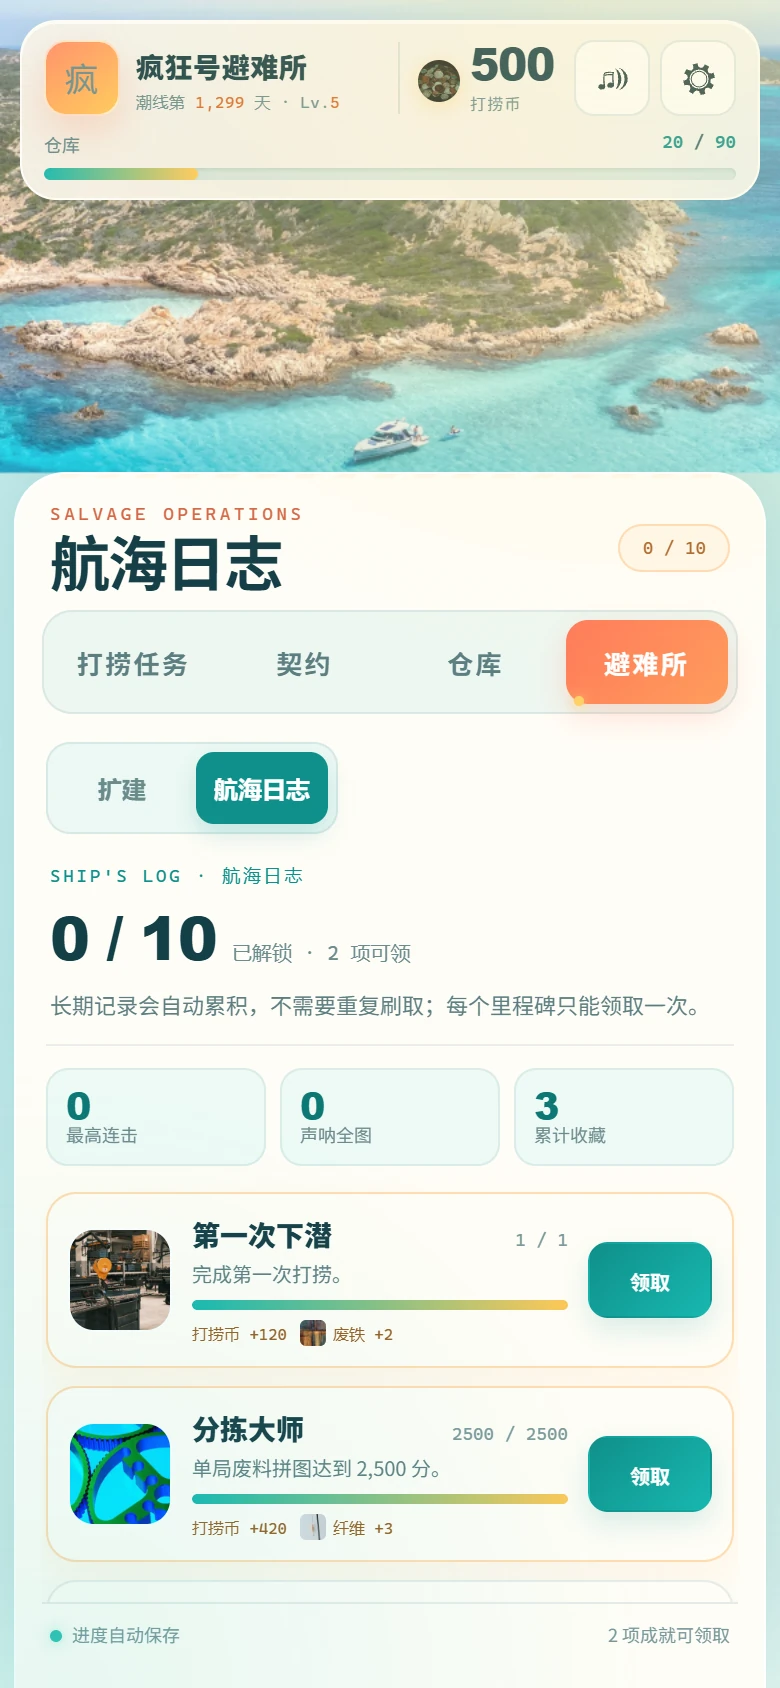
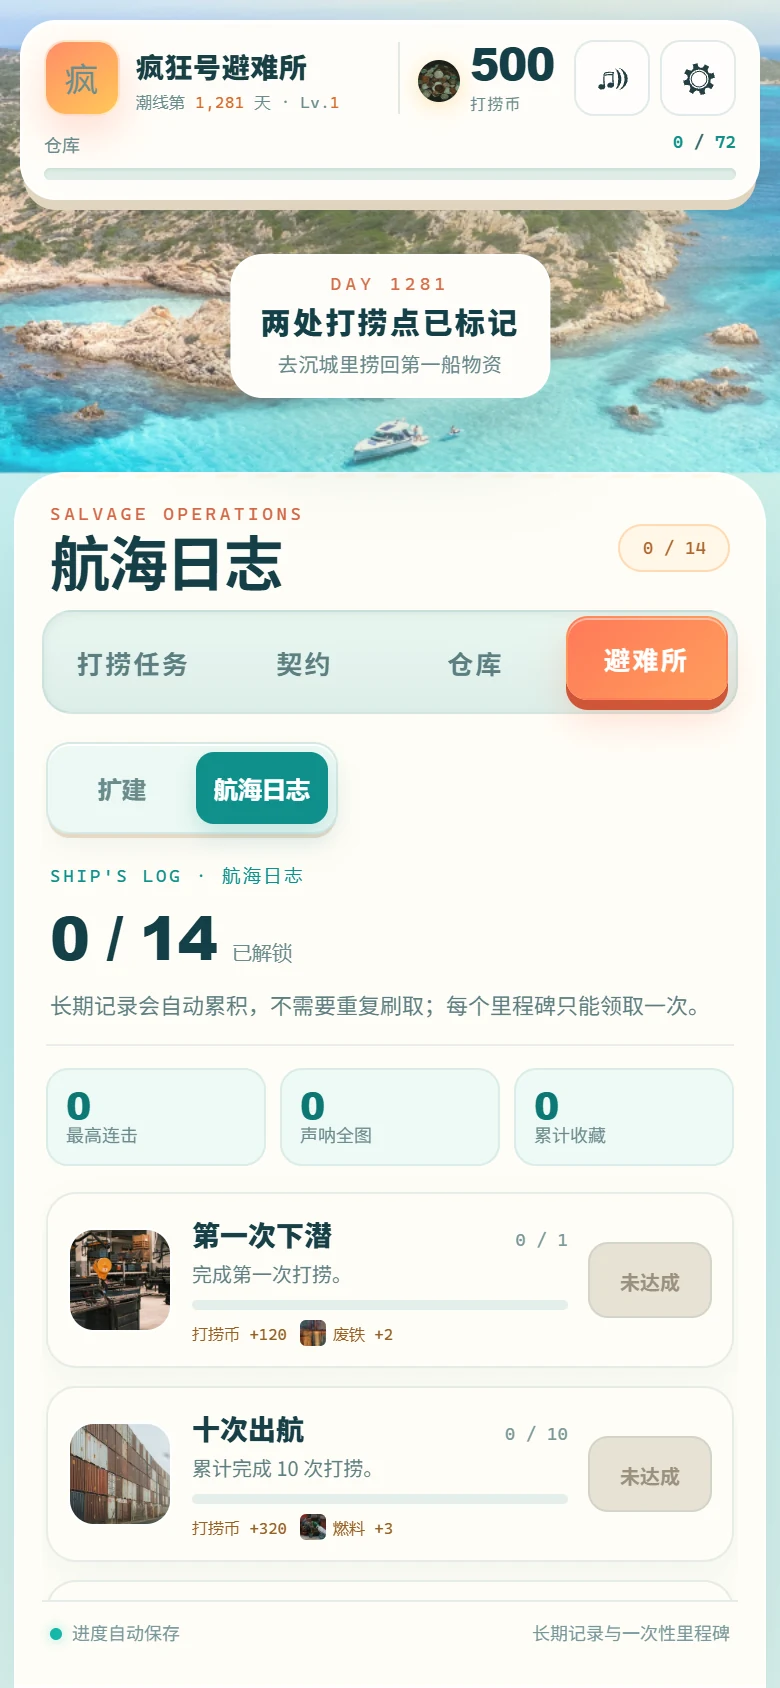
v5.4: 新任务契约、每日与成就目标闭环

diff --git a/js/hub.js b/js/hub.js
@@ -181,6 +181,21 @@
       reward: { credits: 240, mats: { fuel: 2 } }
     },
     {
+      id: 'cut-contract', name: '精准拆解', iconImg: 'assets/real/workshop.webp', metric: 'cutCuts', mode: 'sum', target: 8,
+      desc: '累计完成 8 个沉船切割切口。',
+      reward: { credits: 240, mats: { glass: 2, copper: 1 } }
+    },
+    {
+      id: 'sort-contract', name: '流水线熟手', iconImg: 'assets/real/storage.webp', metric: 'sortCorrect', mode: 'sum', target: 10,
+      desc: '累计正确分拣 10 件货物。',
+      reward: { credits: 250, mats: { chip: 2, glass: 2 } }
+    },
+    {
+      id: 'beacon-contract', name: '守灯人', iconImg: 'assets/real/core.webp', metric: 'beaconRounds', mode: 'sum', target: 3,
+      desc: '累计复现 3 组灯塔信号。',
+      reward: { credits: 260, mats: { copper: 2, chip: 1 } }
+    },
+    {
       id: 'perfect-sonar', name: '全图回收', iconImg: 'assets/real/sonar.webp', metric: 'sonarPerfect', mode: 'max', target: 1, rare: true,
       desc: '单局声呐扫掠找回全部 4 个货箱。',
       reward: { credits: 520, mats: { chip: 4 } }
@@ -228,6 +243,24 @@
       metric: 'collectibles', mode: 'sum', target: 2,
       desc: '今天从局内带回 2 件收藏品。',
       reward: { credits: 300, mats: { fiber: 3, chip: 1 } }
+    },
+    {
+      id: 'daily-cut', name: '精准切口', iconImg: 'assets/real/workshop.webp',
+      metric: 'cutCuts', mode: 'max', target: 4,
+      desc: '单局沉船切割完成 4 个精准切口。',
+      reward: { credits: 320, mats: { glass: 3, copper: 1 } }
+    },
+    {
+      id: 'daily-sort', name: '分拣快手', iconImg: 'assets/real/storage.webp',
+      metric: 'sortCorrect', mode: 'max', target: 8,
+      desc: '单局分拣传送带正确分拣 8 件。',
+      reward: { credits: 330, mats: { chip: 2, glass: 2 } }
+    },
+    {
+      id: 'daily-beacon', name: '信号复现', iconImg: 'assets/real/core.webp',
+      metric: 'beaconRounds', mode: 'max', target: 2,
+      desc: '单局灯塔信号复现 2 组。',
+      reward: { credits: 330, mats: { copper: 2, chip: 2 } }
     }
   ]);
 
@@ -281,6 +314,26 @@
       id: 'level-ten', name: '海岸据点', iconImg: 'assets/real/workshop.webp',
       metric: 'level', target: 10, desc: '把避难所升到 Lv.10。',
       reward: { credits: 800, mats: { metal: 8, fuel: 6, fiber: 6, chip: 4 } }
+    },
+    {
+      id: 'cut-first', name: '第一道切口', iconImg: 'assets/real/workshop.webp',
+      metric: 'cutRuns', target: 1, desc: '完成一次沉船切割。',
+      reward: { credits: 200, mats: { glass: 2, copper: 1 } }
+    },
+    {
+      id: 'sort-first', name: '流水线开张', iconImg: 'assets/real/storage.webp',
+      metric: 'sortRuns', target: 1, desc: '完成一次分拣传送带。',
+      reward: { credits: 200, mats: { chip: 1, glass: 1 } }
+    },
+    {
+      id: 'beacon-first', name: '最后的灯塔', iconImg: 'assets/real/core.webp',
+      metric: 'beaconRuns', target: 1, desc: '完成一次灯塔信号。',
+      reward: { credits: 200, mats: { copper: 1, chip: 1 } }
+    },
+    {
+      id: 'all-six', name: '六面手', iconImg: 'assets/real/sonar.webp',
+      metric: 'missionsPlayed', target: 6, desc: '六种打捞任务都至少完成一次。',
+      reward: { credits: 900, mats: { metal: 6, fuel: 4, fiber: 4, chip: 4, glass: 4, copper: 4 } }
     }
   ]);
 
@@ -384,7 +437,10 @@
         collectiblesFound: 0,
         creditsEarned: 0,
         safeTotal: 0,
-        goldTotal: 0
+        goldTotal: 0,
+        cutRuns: 0,
+        sortRuns: 0,
+        beaconRuns: 0
       },
       upgrades: { storage: 0, workshop: 0, sonar: 0, core: 0, purifier: 0 },
       best: { hook: 0, match: 0, sonar: 0, cut: 0, sort: 0, beacon: 0 },
@@ -435,6 +491,9 @@
     data.stats.creditsEarned = Math.max(0, Number(raw.stats && raw.stats.creditsEarned) || 0);
     data.stats.safeTotal = Math.max(0, Math.floor(Number(raw.stats && raw.stats.safeTotal) || 0));
     data.stats.goldTotal = Math.max(0, Math.floor(Number(raw.stats && raw.stats.goldTotal) || 0));
+    data.stats.cutRuns = Math.max(0, Math.floor(Number(raw.stats && raw.stats.cutRuns) || 0));
+    data.stats.sortRuns = Math.max(0, Math.floor(Number(raw.stats && raw.stats.sortRuns) || 0));
+    data.stats.beaconRuns = Math.max(0, Math.floor(Number(raw.stats && raw.stats.beaconRuns) || 0));
     data.contracts = normalizeContractSet(raw.contracts);
     data.contractRound = Math.max(1, Math.floor(Number(raw.contractRound) || 1));
     data.contractRerollUsed = !!raw.contractRerollUsed;
@@ -899,6 +958,9 @@
       case 'chips': return Math.max(0, Number(result.materials && result.materials.chip) || 0);
       case 'glass': return Math.max(0, Number(result.materials && result.materials.glass) || 0);
       case 'copper': return Math.max(0, Number(result.materials && result.materials.copper) || 0);
+      case 'cutCuts': return Math.max(0, Number(result.cuts) || 0);
+      case 'sortCorrect': return Math.max(0, Number(result.correct) || 0);
+      case 'beaconRounds': return Math.max(0, Number(result.rounds) || 0);
       case 'sonarFinds': return Math.max(0, Number(result.found) || 0);
       case 'sonarPerfect': return result.type === 'sonar' && Number(result.found || 0) >= 4 ? 1 : 0;
       case 'stormRun': {
@@ -959,6 +1021,9 @@
       case 'matchScore': return result.type === 'match' ? Math.max(0, Number(result.score) || 0) : 0;
       case 'sonarFinds': return Math.max(0, Number(result.found) || 0);
       case 'runs': return 1;
+      case 'cutCuts': return Math.max(0, Number(result.cuts) || 0);
+      case 'sortCorrect': return Math.max(0, Number(result.correct) || 0);
+      case 'beaconRounds': return Math.max(0, Number(result.rounds) || 0);
       case 'collectibles': return Array.isArray(result.collectibles) ? result.collectibles.length : 0;
       default: return 0;
     }
@@ -1436,6 +1501,19 @@
       case 'collectiblesFound': return this.data.stats.collectiblesFound || 0;
       case 'dailyStreak': return this.data.dailyStreak || 0;
       case 'safeTotal': return this.data.stats.safeTotal || 0;
+      case 'cutRuns': return this.data.stats.cutRuns || 0;
+      case 'sortRuns': return this.data.stats.sortRuns || 0;
+      case 'beaconRuns': return this.data.stats.beaconRuns || 0;
+      case 'missionsPlayed': {
+        var n = 0;
+        if ((this.data.best.hook || 0) > 0) n++;
+        if ((this.data.best.match || 0) > 0) n++;
+        if ((this.data.best.sonar || 0) > 0) n++;
+        if ((this.data.stats.cutRuns || 0) > 0) n++;
+        if ((this.data.stats.sortRuns || 0) > 0) n++;
+        if ((this.data.stats.beaconRuns || 0) > 0) n++;
+        return n;
+      }
       case 'level': return this.level();
       default: return 0;
     }
@@ -1659,6 +1737,9 @@
     if (filtersGained > 0) this.data.filterPity = 0;
     else this.data.filterPity = Math.min(7, (this.data.filterPity || 0) + 1);
     this.data.runs += 1;
+    if (result.type === 'cut') this.data.stats.cutRuns = (this.data.stats.cutRuns || 0) + 1;
+    else if (result.type === 'sort') this.data.stats.sortRuns = (this.data.stats.sortRuns || 0) + 1;
+    else if (result.type === 'beacon') this.data.stats.beaconRuns = (this.data.stats.beaconRuns || 0) + 1;
     var key = ['hook', 'match', 'sonar', 'cut', 'sort', 'beacon'].indexOf(result.type) >= 0 ? result.type : 'hook';
     this.data.best[key] = Math.max(this.data.best[key] || 0, Math.round(result.score || 0));
     var collectibles = this.registerCollectibles(result);

diff --git a/js/expeditions.js b/js/expeditions.js
@@ -112,7 +112,7 @@
     m.copper = 1 + Math.floor(this.cuts / 2);
     m.glass = 1;
     this.result = {
-      type: 'cut', score: this.score + this.cuts * 60,
+      type: 'cut', score: this.score + this.cuts * 60, cuts: this.cuts,
       credits: 90 + this.cuts * 65, filters: 0,
       materials: m, collectibles: [], bestCombo: this.cuts
     };
@@ -240,7 +240,7 @@
     for (var i = 0; i < CW.MATERIALS.length; i++) m[CW.MATERIALS[i].id] = 0;
     for (var id in this.counts) if (this.counts[id]) m[id] = this.counts[id];
     this.result = {
-      type: 'sort', score: this.score + this.correct * 30,
+      type: 'sort', score: this.score + this.correct * 30, correct: this.correct,
       credits: 100 + this.correct * 45, filters: 0,
       materials: m, collectibles: []
     };
@@ -385,7 +385,7 @@
     m.glass = 1 + Math.floor(this.rounds / 2);
     m.copper = 1;
     this.result = {
-      type: 'beacon', score: this.score,
+      type: 'beacon', score: this.score, rounds: this.rounds,
       credits: 100 + this.rounds * 90, filters: 0,
       materials: m, collectibles: []
     };

diff --git a/index.html b/index.html
@@ -134,7 +134,7 @@
       </div>
       <div class="title-footer">
         <span>海岸实景素材 · 本地图片 · 无离线收益</span>
-        <span>v5.3 · PURE STATIC</span>
+        <span>v5.4 · PURE STATIC</span>
       </div>
     </section>
 
@@ -219,7 +219,7 @@
         <button class="btn ghost wide" data-action="guide">查看玩法说明</button>
         <button id="reset-save" class="btn danger wide" data-action="reset-save">清空避难所</button>
         <p class="modal-note">清空会删除打捞币、物资和所有扩建，无法撤销。再次点击确认。</p>
-        <p class="version">疯狂水世界 · v5.3 · 本地图片素材 + 程序化特效，无远程依赖</p>
+        <p class="version">疯狂水世界 · v5.4 · 本地图片素材 + 程序化特效，无远程依赖</p>
       </div>
     </section>
 
@@ -293,6 +293,7 @@
   </main>
 </body>
 </html>
+
 
 
 

diff --git a/DESIGN.md b/DESIGN.md
@@ -1,6 +1,6 @@
 # 疯狂水世界 · 游戏设计文档
 
-> 版本：5.3 · 类型：海岸打捞 / 小游戏合集 / 轻松经营  
+> 版本：5.4 · 类型：海岸打捞 / 小游戏合集 / 轻松经营  
 > 平台：桌面与移动端浏览器 · 单局 1–3 分钟 · 无离线收益
 
 ---
@@ -339,7 +339,7 @@ HUD 以「末日第 1,281 天」计量时间，每完成一局打捞推进 2 天
 ### 8.8 每日潮汐契约
 
 - 任务页顶部每天展示 1 个每日目标；目标由本地日期计算，同一天固定，跨日刷新。
-- 6 种目标池：抓钩保险箱 4 / 抓钩最高连击 6 / 三消 1,800 分 / 声呐找齐 4 箱 / 完成 3 局 / 带回 2 件收藏。
+- 9 种目标池：抓钩保险箱 4 / 抓钩最高连击 6 / 三消 1,800 分 / 声呐找齐 4 箱 / 切割 4 个切口 / 分拣 8 件 / 灯塔复现 2 组 / 完成 3 局 / 带回 2 件收藏。
 - 目标模式分 `max`（单局最高）与 `sum`（当日累计）；进度只在结算时推进。
 - 奖励为基础打捞币与材料；连续领取天数提供最高 +120 打捞币，断签后回到第 1 天。
 - 保存字段：`daily: { date, id, progress, claimed }`、`dailyStreak`、`lastDailyClaim`。
@@ -350,7 +350,7 @@ HUD 以「末日第 1,281 天」计量时间，每完成一局打捞推进 2 天
 - 避难所标签内部切换「扩建 / 航海日志」，沿用仓库的子视图模式，不增加第五个顶层标签。
 - 10 个一次性里程碑：首次下潜、十次出航、九层连击、单局 2,500 分、声呐全图、3 台过滤器、10 件收藏、7 天连签、20 个保险箱、避难所 Lv.10。
 - `stats` 记录 `bestCombo / sonarPerfect / filtersFound / collectiblesFound / creditsEarned / safeTotal / goldTotal`。
-- 成就奖励打捞币与材料；每个成就 `achievements[id]=true` 后不可重复领取。
+- 14 个成就：原 10 个，加切割 / 分拣 / 灯塔首次完成与「六面手」。成就奖励打捞币与材料；每个成就 `achievements[id]=true` 后不可重复领取。
 - 旧存档迁移：收集品总数与当前过滤器用于补全 `collectiblesFound / filtersFound`；其余统计从 0 开始。
 - 可领取时避难所标签显示圆点；成就进度只由结算与长期状态计算，不产生离线收益。
 
@@ -484,6 +484,7 @@ CREDITS.md                        图片与图标授权
 ---
 
 所有核心数值集中在 `js/hub.js`、`js/arcade.js`、`js/match.js` 顶部，方便直接调整并重新平衡。过滤器出现率分别在 `HookGame.buildField`（12%）和 `MatchGame.finish`（5%）中调整。
+
 
 
 

diff --git a/README.md b/README.md
@@ -51,7 +51,7 @@
 任务页顶部每天会出现一张「今日潮汐」卡：
 
 - 按日期固定生成 1 个目标，同一天刷新页面不会变，跨日自动换新。
-- 目标覆盖：抓钩保险箱 / 连击、三消分数、声呐找齐 4 个货箱、完成 3 局、带回 2 件收藏。
+- 目标覆盖：抓钩保险箱 / 连击、三消分数、声呐找齐 4 个货箱、切割 4 个切口、分拣 8 件、灯塔复现 2 组、完成 3 局、带回 2 件收藏。
 - 完成后领取打捞币与材料；连续领取天数带来最高 **+120 打捞币** 的连签加成。
 - 每天只能领取一次；进度只由实际打捞结算推进，不产生离线收益。
 - 任务标签会出现可领取圆点，不会增加第五个标签页。
@@ -61,8 +61,8 @@
 ## 航海日志 · 长期成就
 
 - 避难所页内切换「扩建 / 航海日志」，不增加第五个顶层标签。
-- 10 个里程碑：首次下潜、十次出航、九层连击、单局 2,500 分、声呐全图、3 台过滤器、10 件收藏、7 天连签、20 个保险箱、避难所 Lv.10。
-- 自动记录最高连击、声呐全图次数、累计过滤器 / 收藏 / 保险箱 / 打捞币。
+- 14 个里程碑：包含首次下潜、十次出航、九层连击、单局 2,500 分、声呐全图、3 台过滤器、10 件收藏、7 天连签、20 个保险箱、Lv.10，以及切割 / 分拣 / 灯塔首次完成和「六面手」。
+- 自动记录最高连击、声呐全图次数、累计过滤器 / 收藏 / 保险箱 / 打捞币，以及三种新任务的完成次数。
 - 每个成就只能领取一次打捞币与材料；旧存档会按当前进度补全，可直接领取已达成的里程碑。
 - 有可领取成就时，避难所标签显示圆点。
 
@@ -145,7 +145,7 @@
 
 ![打捞契约](docs/preview-contracts.webp)
 
-每个存档有 **3 个契约**，从保险箱、连击、三消分数、声呐发现、芯片、玻璃、铜、金条和完成次数等目标中随机抽取：
+每个存档有 **3 个契约**，从保险箱、连击、三消分数、声呐发现、切割切口、分拣件数、灯塔信号、芯片、玻璃、铜、金条和完成次数等目标中随机抽取：
 
 - 完成一局打捞后自动更新进度；**没有离线进度**。
 - 进度达标后可领取 **打捞币 + 补给材料**，奖励同样受仓库容量影响。

diff --git a/ROADMAP.md b/ROADMAP.md
@@ -2,7 +2,16 @@
 
 > 每 2 小时一轮。每轮先列计划，再做一项以上有意义的改动，并完成测试与文档更新。
 
-## 当前版本：v5.3
+## 当前版本：v5.4
+
+### v5.4 · 三个新任务的目标闭环
+
+- 新增切割 / 分拣 / 灯塔三个契约目标，接入随机契约池与刷新。
+- 每日目标池从 6 扩到 9，新任务每天都有机会成为今日潮汐。
+- 新增 4 个成就：三个新任务首次完成 + 「六面手」六种任务全体验。
+- 存档新增 cutRuns / sortRuns / beaconRuns；旧存档自动补 0。
+- 结果结构补 cuts / correct / rounds，契约、每日、成就共用。
+- 不增加离线收益、不新增顶层标签。
 
 ### v5.3 · 三个新任务与立体 UI
 
@@ -183,6 +192,7 @@
 4. 更新版本号、README / DESIGN、必要的预览图和 `CREDITS.md`。
 5. 回复按「计划 → 改动 → 测试 → 下一轮候选」输出。
 6. 保持：**无离线收益、无体力、无远程运行时依赖**。
+
 
 
 
